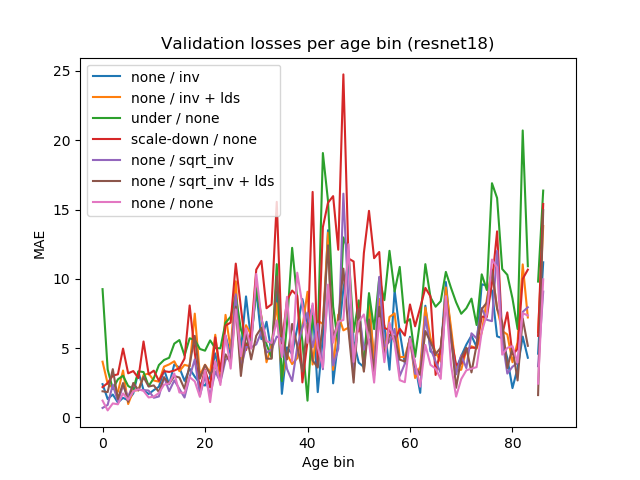
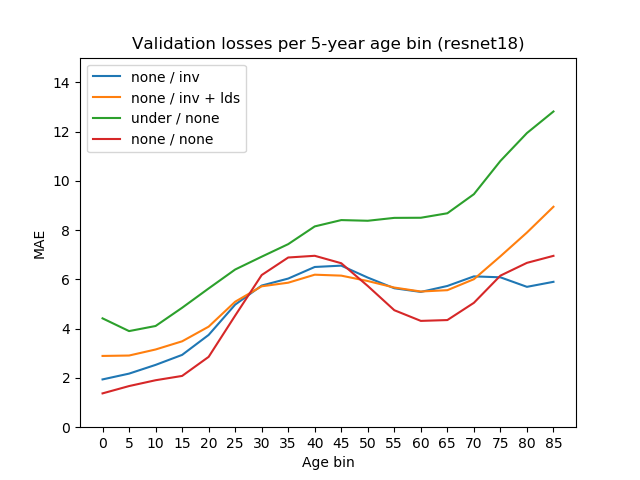
Add the remaining results

diff --git a/age_prediction/plot_results.py b/age_prediction/plot_results.py
@@ -27,14 +27,29 @@ def plot_losses_over_time(train_losses, val_losses, description, job_id):
     ax.legend()
     fig.savefig(f"{FIGURES_DIR}/{job_id}_train_and_val_losses_over_time.png")
 
-def plot_val_losses_per_bin(ax, preds, description):
+def plot_val_losses_per_5y_bin(ax, preds, description):
     def mae(bin):
-        subjects_in_bin = preds[preds['agebin'] == bin]
+        subjects_in_bin = preds[(preds['age'] // 5) == bin]
+        assert len(subjects_in_bin) > 0
         return np.mean(np.abs(subjects_in_bin['age'] - subjects_in_bin['age_pred']))
+    
+    if description not in ('none / inv', 'none / inv + lds', 'under / none', 'none / none'):
+        return
 
-    bins = range(100)
-    losses_per_bin = [mae(bin) for bin in bins]
-    ax.plot(bins, losses_per_bin, label=description)
+    bins = np.arange(18)
+    losses_per_bin = np.array([mae(bin) for bin in bins])
+    
+    # Smooth losses using a Gaussian kernel
+    smoothed_losses = np.zeros(losses_per_bin.shape)
+    sigma = 1.
+    for bin in bins:
+        kernel = np.exp(-(bins - bin) ** 2 / (2 * sigma ** 2))
+        kernel = kernel / sum(kernel)
+        smoothed_losses[bin] = sum(losses_per_bin * kernel)
+
+    display_bins = [5*bin for bin in bins]
+    ax.set_xticks(display_bins)
+    ax.plot(display_bins, smoothed_losses, label=description)
 
 def main():
     os.makedirs(FIGURES_DIR, exist_ok=True)
@@ -63,9 +78,10 @@ def main():
     val_losses_axs = {}
     for arch in archs:
         fig, ax = plt.subplots()
-        ax.set_title(f"Validation losses per age bin ({arch})")
+        ax.set_title(f"Validation losses per 5-year age bin ({arch})")
         ax.set_xlabel("Age bin")
         ax.set_ylabel("MAE")
+        ax.set_ylim(0, 15)
         val_losses_figs[arch] = fig
         val_losses_axs[arch] = ax
 
@@ -79,7 +95,7 @@ def main():
             description += " + lds"
         
         arch = cfg['arch']
-        plot_val_losses_per_bin(val_losses_axs[arch], val_preds, description)
+        plot_val_losses_per_5y_bin(val_losses_axs[arch], val_preds, description)
 
     for arch in archs:
         val_losses_axs[arch].legend()
